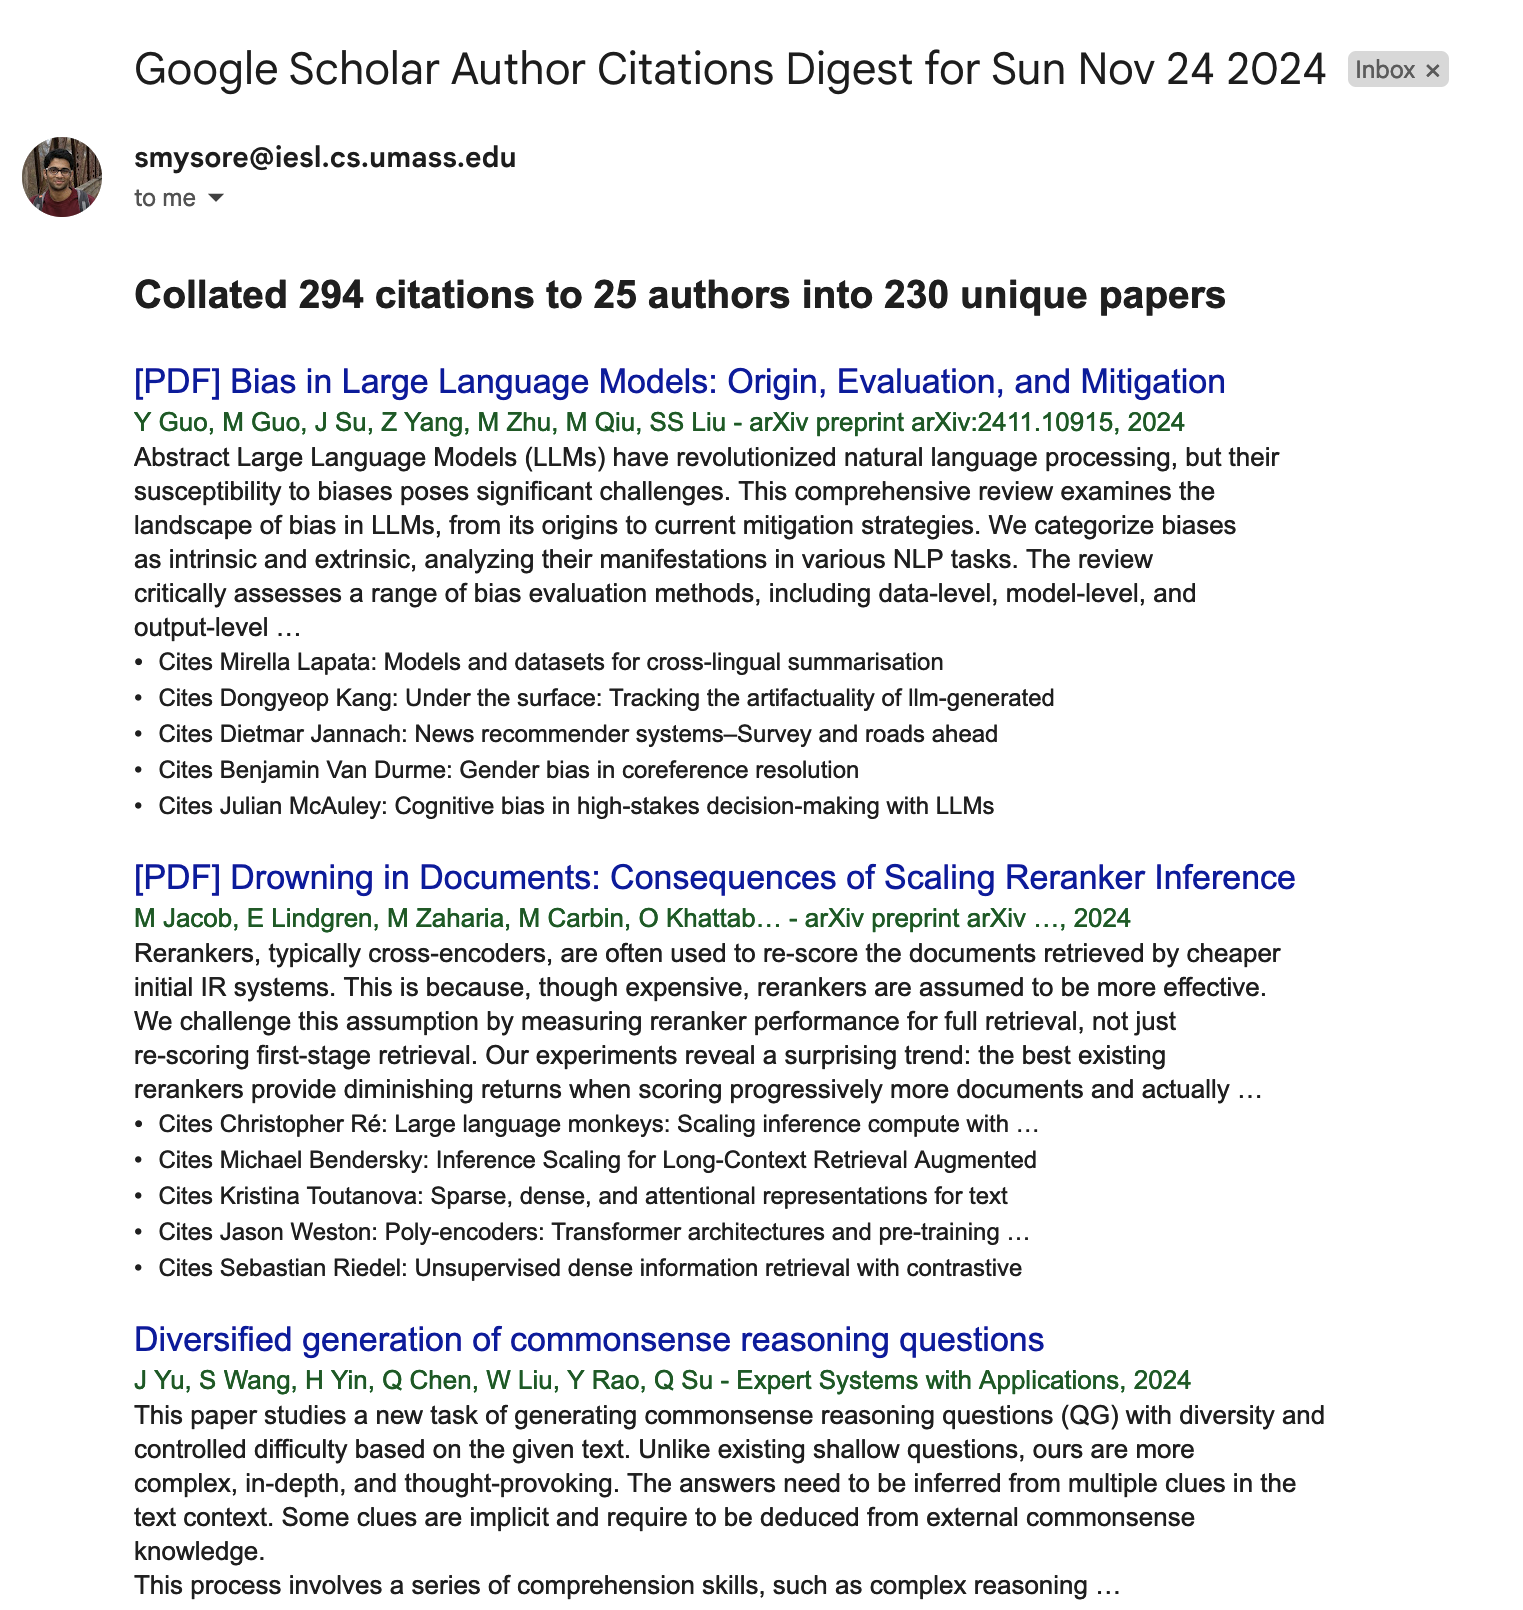
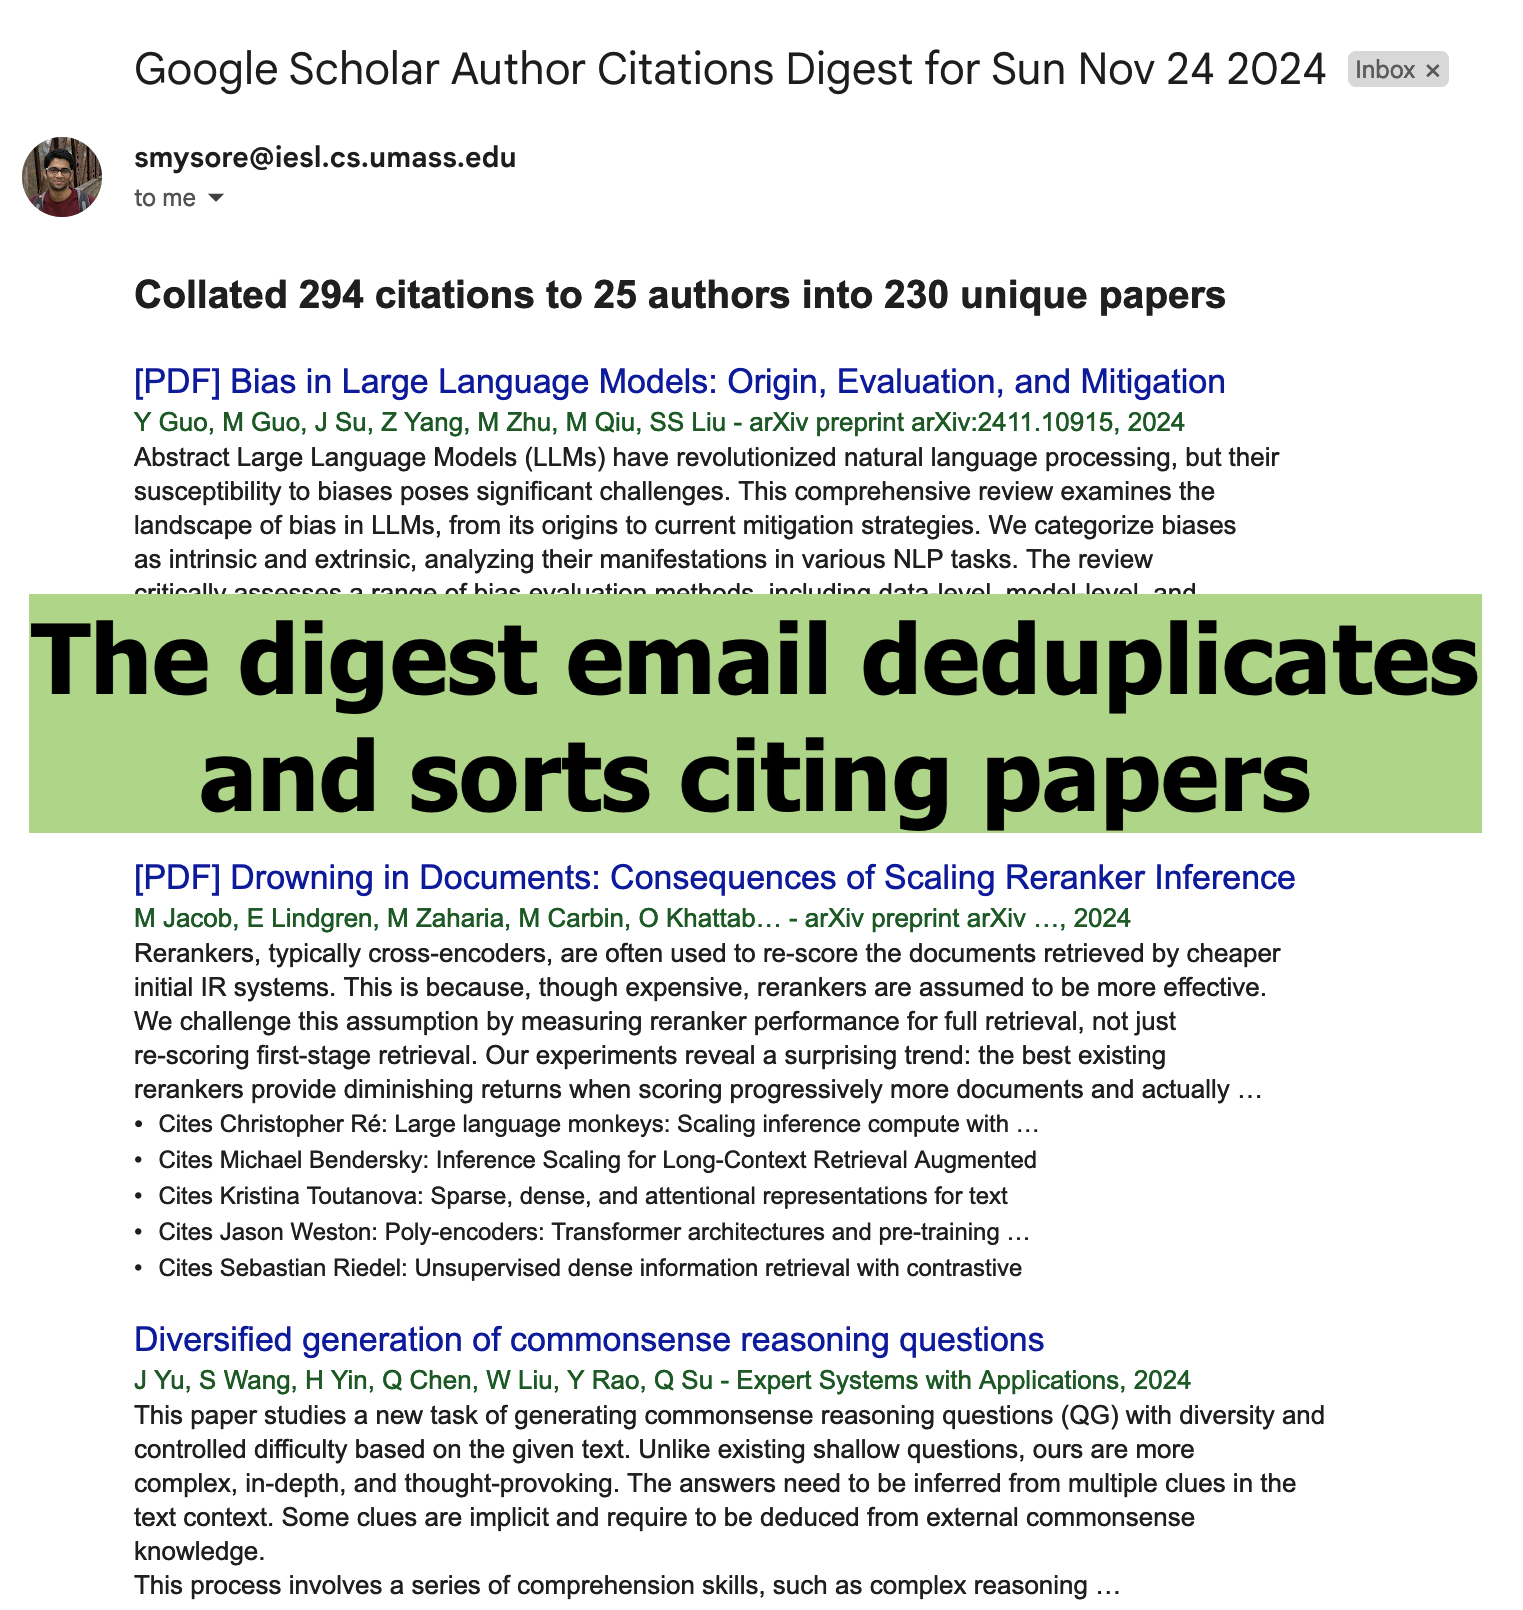
Update readme and figs to be more explicit

Changed region(s): [[0.0, 0.3416, 0.9875, 0.528]]

diff --git a/README.md b/README.md
@@ -1,10 +1,10 @@
-This is a script to collate the papers you receive in your subscribed Google Scholar Alerts. I'm hoping this will prevent me being overwhelmed by the emails I receive from Google Scholar and actually skim the latest papers from authors I've subscribed to.
+This is a script to create a simple "Digest" for the papers you receive in your subscribed Google Scholar Alerts. I'm wrote this to prevent the scholar alerts from overwhelming me and for making sure that I actually skim the latest papers from authors I've subscribed to. Hope it helps you too!
 
 ## Introduction
 
-I use this script to do two things:
-- De-duplicate the papers citing multiple authors that I am subscribed to and sort them in the order of citation count to my subscribed authors.
-- Collate scholar alerts which are sent willy nilly into one "Digest" email sent to me at a regular interval, for example one Google Scholar Digest every 3 days.
+I use this script + the Apps Script Triggers to do two things:
+- **De-duplicate and sort citations:** De-duplicate the papers citing multiple authors that I am subscribed to and sort them in the order of citation count to my subscribed authors.
+- **Trigger the script to get a regularly timed digest:** Collate scholar alerts which are sent willy nilly into one "Digest" email sent to me at a regular interval, for example one Google Scholar Digest every 3 days.
 
 **Before:** My inbox inundated with Google Scholar Alerts multiple times a week:
 <p align="center">
@@ -12,7 +12,7 @@ I use this script to do two things:
   <img src="./screenshots/before-2.png" width="700" title="Each email contains the papers citing one subscribed author sometimes with duplication across subscribed authors.">
 </p>
 
-**After:** Emails de-duplicated and sorted into a regular digest (that I will hopefully skim):
+**After:** Emails with de-duplicated and sorted citations delivered as a regular digest:
 <p align="center">
   <img src="./screenshots/after.png" width="700" title="One email de-duplicating and sorting the papers in my alerts">
 </p>
@@ -20,11 +20,11 @@ I use this script to do two things:
 
 ## Usage
 
-You need to set up this script as a Google Apps Script and set it up to run at a frequency you want. Setting up a Google Apps Script is straightforward and I'm copying and modifying the instructions from here: https://developers.google.com/gmail/api/quickstart/apps-script 
+You need to set up this script as a Google Apps Script and set up the Trigger to run at a frequency you want. Setting up a Google Apps Script is straightforward and I'm copying and modifying the instructions from here: https://developers.google.com/gmail/api/quickstart/apps-script 
 
-### Running this manually:
+### Run this manually first:
 
-I recommend you do this the first time you set this up so that you can authenticate the App.
+I recommend you do this the first time you set this up so that you can authenticate the scripts for use with your GMail.
 
 1. Create a new script by going to https://script.google.com/create
 
@@ -43,7 +43,7 @@ This is what it looks like on my account:
 
 ### Running this automatically with a trigger
 
-Next we will setup a Trigger to run this script automatically on a schedule.
+Next set up a Trigger to run this script automatically on a schedule.
 
 1. From the left hand menu navigate to **Triggers**.
 
@@ -58,6 +58,8 @@ Here is how my Monday trigger is setup.
   <img src="./screenshots/trigger-how-to.png" width="700" title="Setting up triggers to run the script automatically.">
 </p>
 
-Hope it works! If you run into problems please get in touch with me!
+Hope it works! If you run into problems please get in touch with me.
 
-PS: I've never worked with Google Apps Script or Javascript before and I wrote this alongside [Perplexity](https://www.perplexity.ai/)!
+## TODOs
+
+1. At present the script merges all "New Article" emails into one email. In future the script will de-duplicate and sort these emails too.
